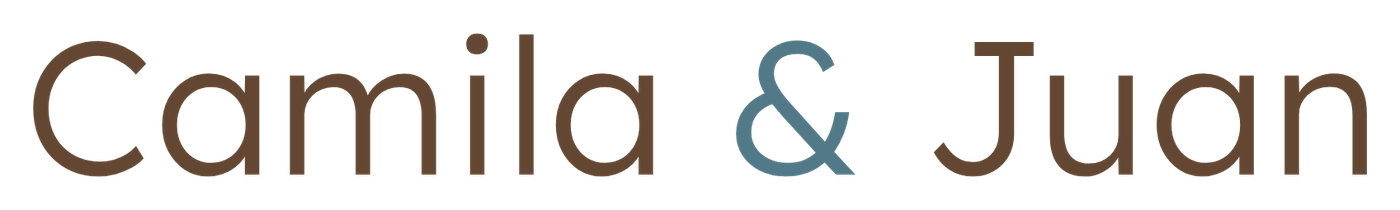
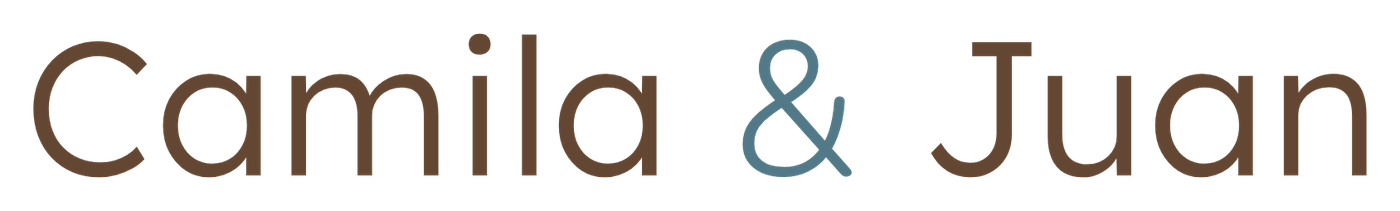
Cerrar el & en Quicksand, Josefin, Poppins y Lexend
Claude-Session: https://claude.ai/code/session_01CPC8ckxxTpQ5o2jahJbfrt

diff --git a/index.html b/index.html
@@ -81,7 +81,7 @@
     <div class="invitacion">
       <span class="eyebrow">Nos casamos</span>
       <img class="names" src="invitacion/assets/nombres.png" alt="Camila &amp; Juan">
-      <script>(function(){var f=new URLSearchParams(location.search).get('fuente');if(/^(quicksand|nunito|comfortaa|josefin|raleway|jost|poppins|montserrat|lexend)$/.test(f||''))document.currentScript.previousElementSibling.src='invitacion/assets/nombres-'+f+'.png?v=2';})();</script>
+      <script>(function(){var f=new URLSearchParams(location.search).get('fuente');if(/^(quicksand|nunito|comfortaa|josefin|raleway|jost|poppins|montserrat|lexend)$/.test(f||''))document.currentScript.previousElementSibling.src='invitacion/assets/nombres-'+f+'.png?v=3';})();</script>
       <img class="line" src="invitacion/assets/linea.png" alt="">
       <span class="date">08.12.2026</span>
       <span class="place">Palacio Sans Souci</span>

diff --git a/invitacion/app.js b/invitacion/app.js
@@ -10,7 +10,7 @@
   document.documentElement.classList.add('fuente-prueba');
   document.documentElement.style.setProperty('--fuente', "'" + fam + "', sans-serif");
   document.addEventListener('DOMContentLoaded', () => document.querySelectorAll('.names img').forEach(i => {
-    i.src = 'assets/nombres-' + f + '.png?v=2'; i.removeAttribute('height');
+    i.src = 'assets/nombres-' + f + '.png?v=3'; i.removeAttribute('height');
   }));
 })();
 // Animaciones de carga: el encabezado entra en cascada y el resto al hacer scroll.

diff --git a/invitacion/index.html b/invitacion/index.html
@@ -8,7 +8,7 @@
   <link rel="preconnect" href="https://fonts.gstatic.com" crossorigin>
   <link rel="stylesheet" href="https://fonts.googleapis.com/css2?family=Pinyon+Script&display=swap">
   <link rel="stylesheet" href="styles.css?v=1793126058">
-  <script src="app.js?v=1793126058" defer></script>
+  <script src="app.js?v=1793126277" defer></script>
 </head>
 <body>
 <svg class="svg-definitions" aria-hidden="true" xmlns="http://www.w3.org/2000/svg"><defs>
